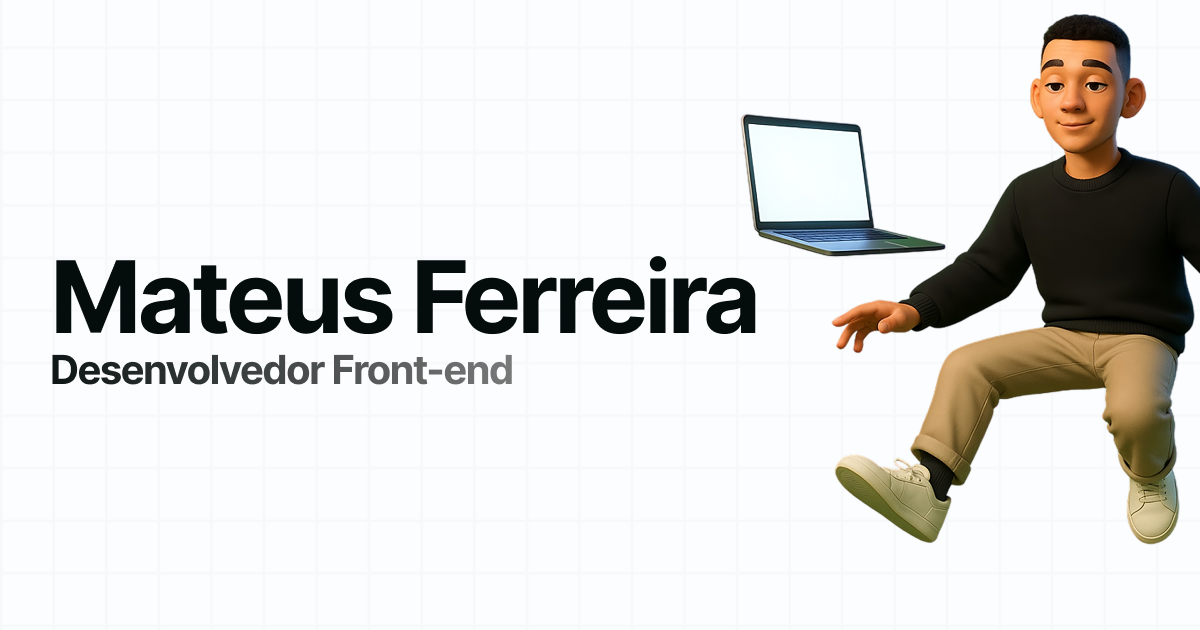
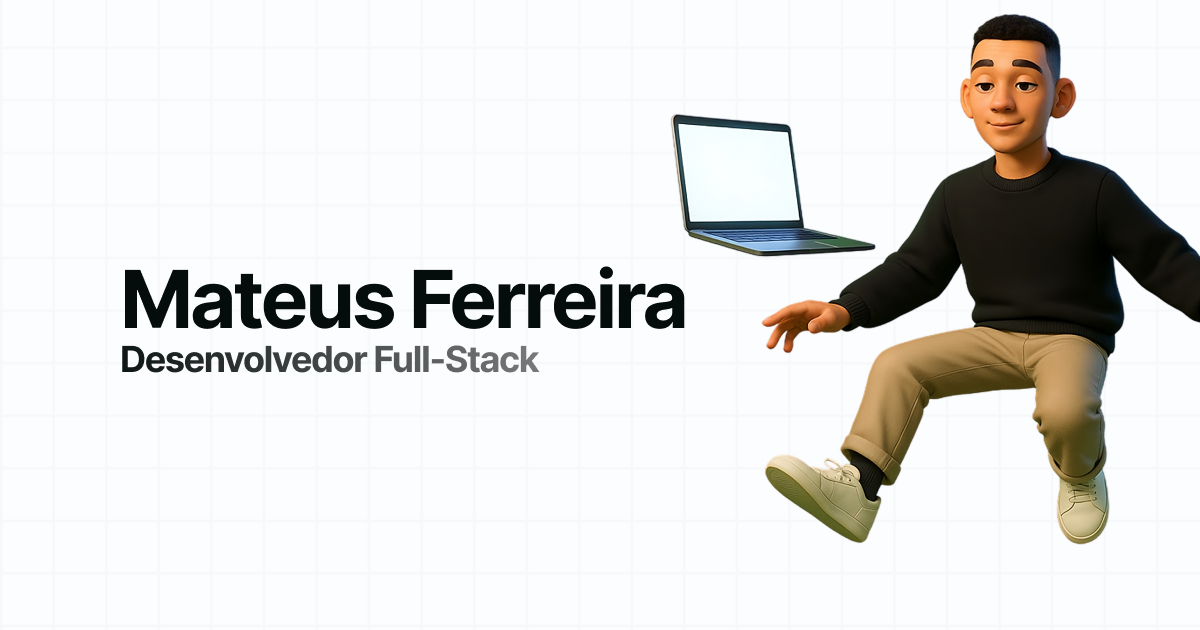
chore(seo): atualiza meta tags para otimização de busca e compartilhamento social

Changed region(s): [[0.0308, 0.0, 1.0, 0.8746]]

diff --git a/index.html b/index.html
@@ -6,12 +6,16 @@
   <meta name="viewport" content="width=device-width, initial-scale=1.0">
   <meta name="author" content="Mateus Ferreira">
   <meta name="description"
-    content="Mateus Ferreira, desenvolvedor front-end. Crio sites modernos, responsivos e com foco na melhor experiência digital.">
+    content="Mateus Ferreira, desenvolvedor Full-Stack. Crio APIs robustas com Java/Spring Boot e interfaces modernas com Angular e TypeScript.">
   <meta name="keywords"
-    content="mateus ferreira, desenvolvedor front-end, front end, frontend, programador web, criação de sites, sites institucionais, landing page, desenvolvimento web, programação, portfólio front end, ui design, ux design, web designer, designer de interface, website, freelancer, freela, site responsivo, otimização web, design moderno, dev front end, portfólio web">
-  <meta name="copyright" content="© 2025 Mateus Ferreira">
+    content="mateus ferreira, desenvolvedor full stack, fullstack, java, spring boot, angular, typescript, qa engineer, engenheiro de qualidade, junit, jest, postgresql, docker, automação de testes, desenvolvimento web, portfólio web, programador, freelancer">
+  <meta name="copyright" content="© 2026 Mateus Ferreira">
   <meta name="google-site-verification" content="3xWWEGGjxq7cLd_6HFwnMaV252JxaV30c0Q4ADegXhw" />
   <meta property="og:image" content="https://mateus-fc.vercel.app/src/assets/images/og-image.png">
+  <meta property="og:title" content="Mateus Ferreira | Desenvolvedor Full-Stack">
+  <meta property="og:description"
+    content="Desenvolvimento Full-Stack integrando o ecossistema Java e Spring Boot com a agilidade do Angular e TypeScript. Conheça meu portfólio.">
+  <meta property="og:type" content="website">
   <link rel="stylesheet" href="src/styles/style.css">
   <link rel="preload" href="./src/assets/fonts/Inter-Bold.woff2" as="font" type="font/woff2" crossorigin>
   <link rel="preload" href="./src/assets/fonts/Inter-Regular.woff2" as="font" type="font/woff2" crossorigin>
